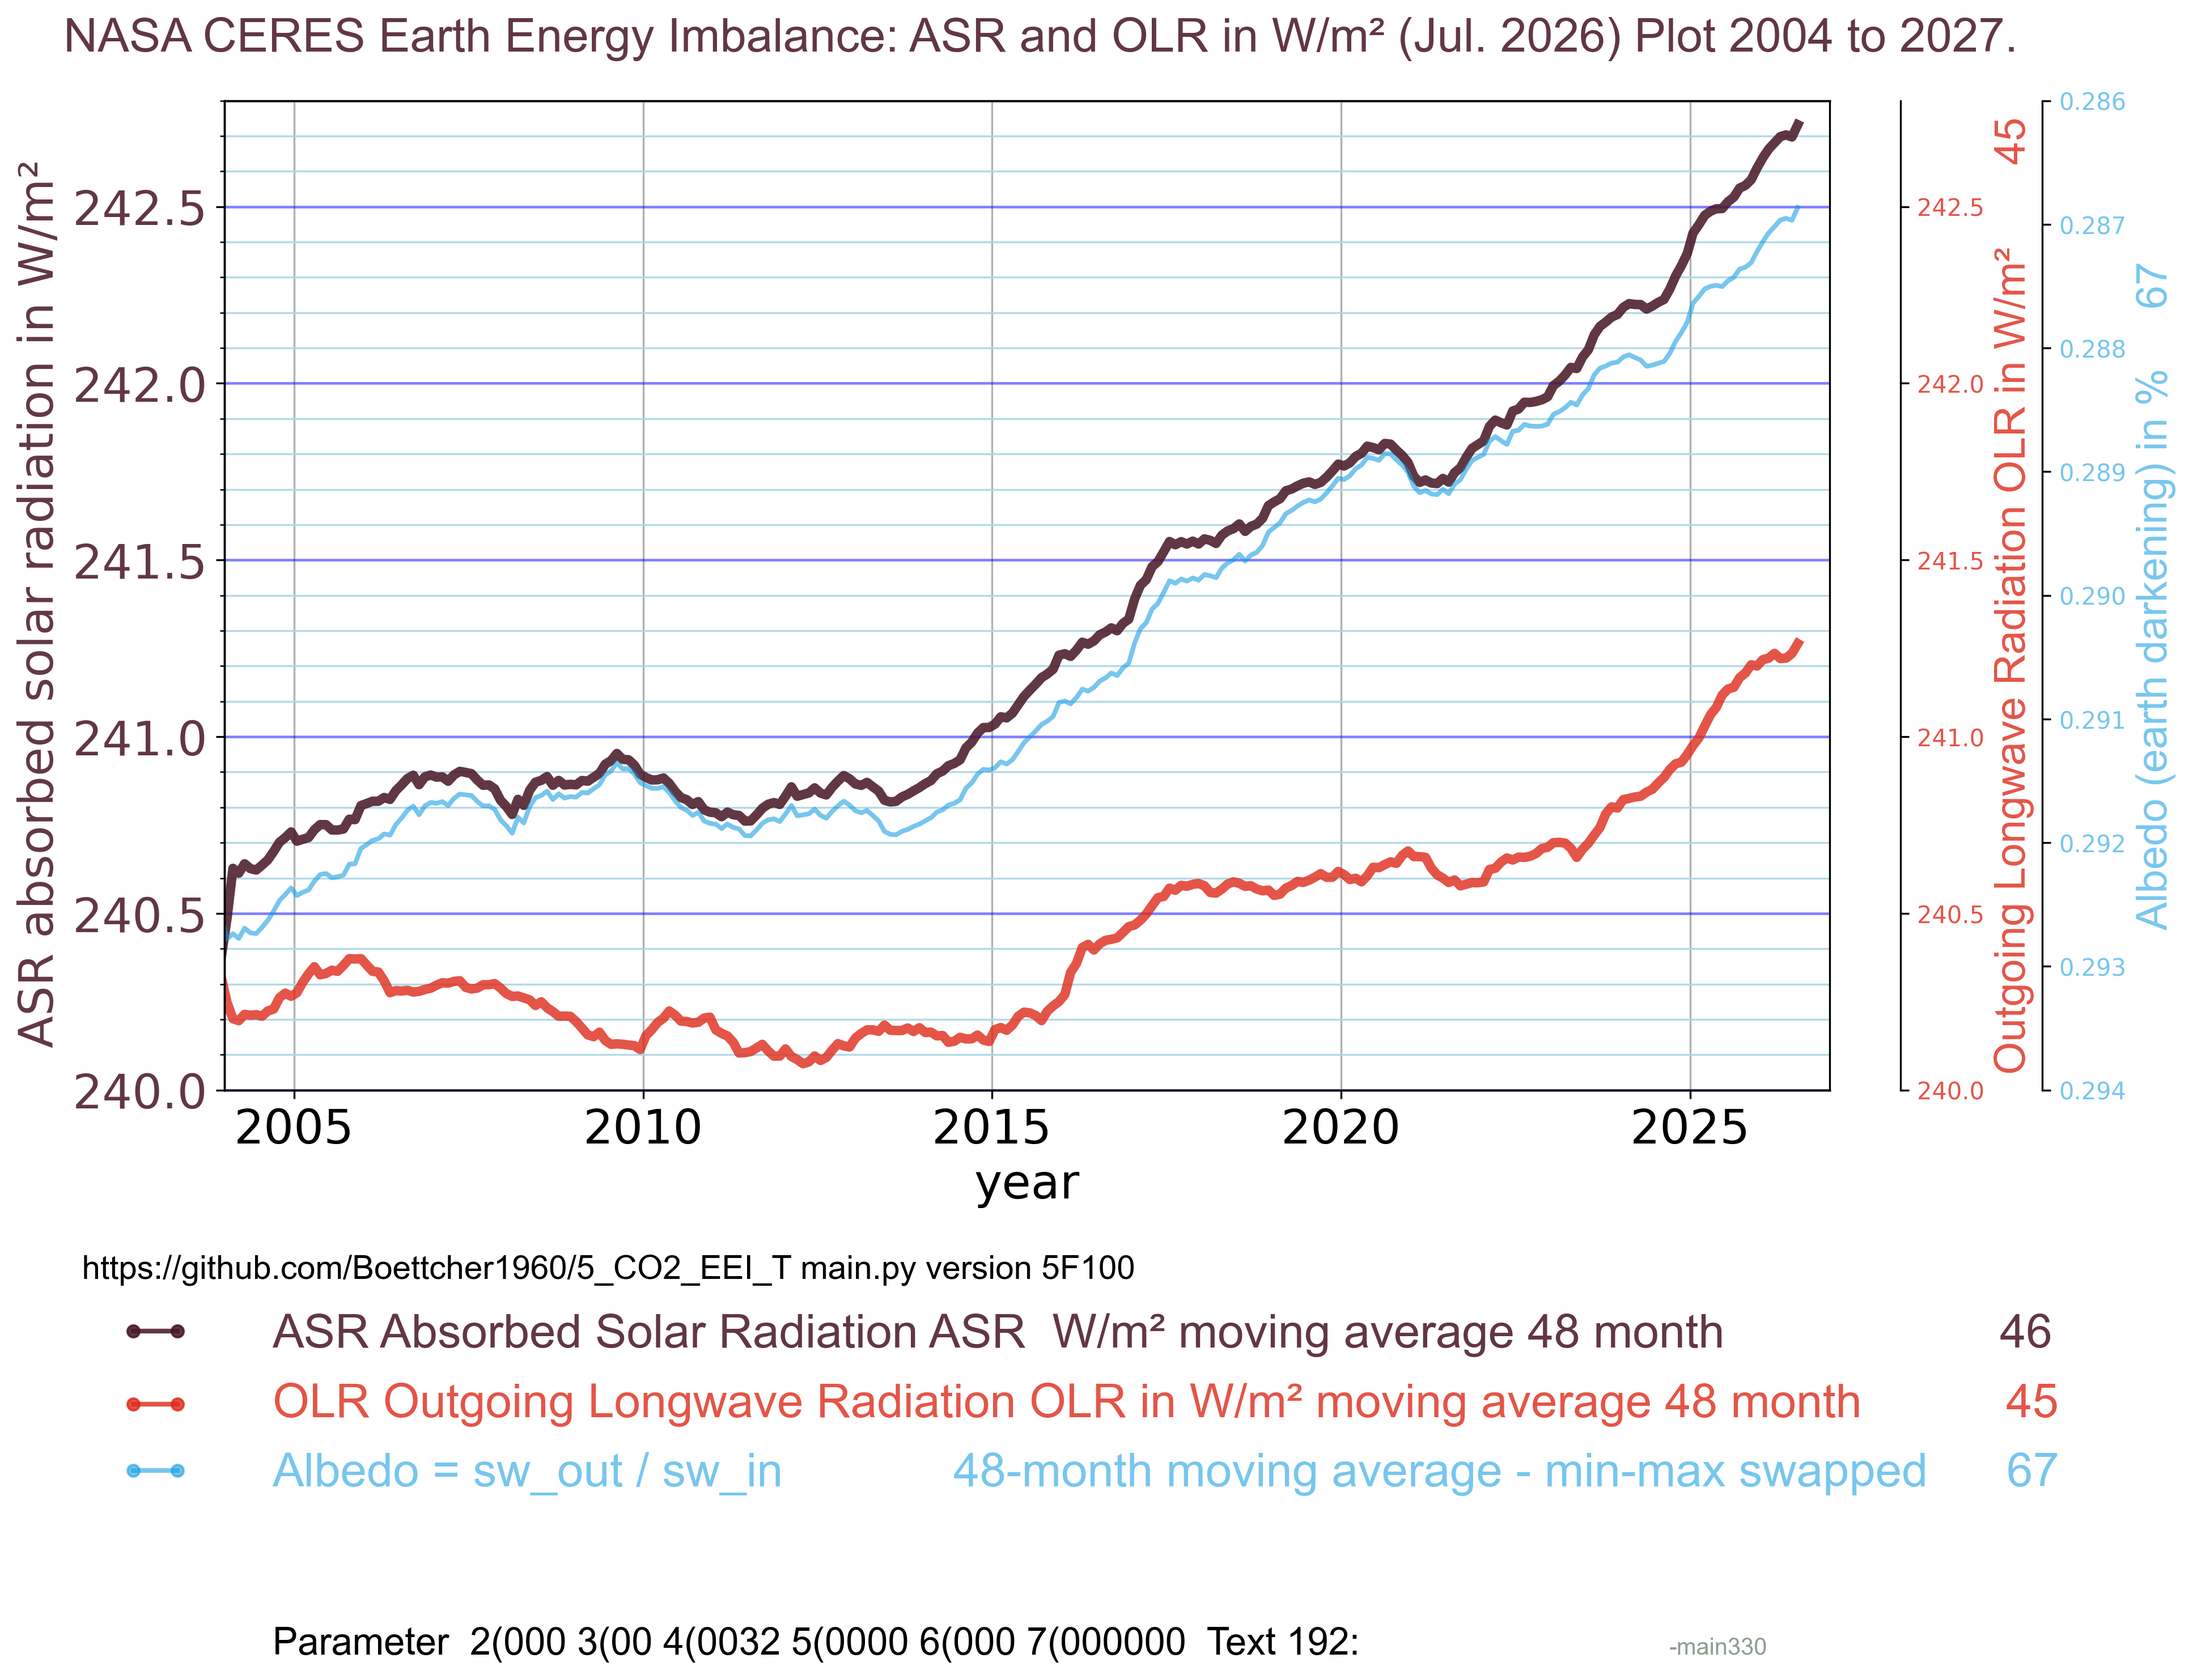
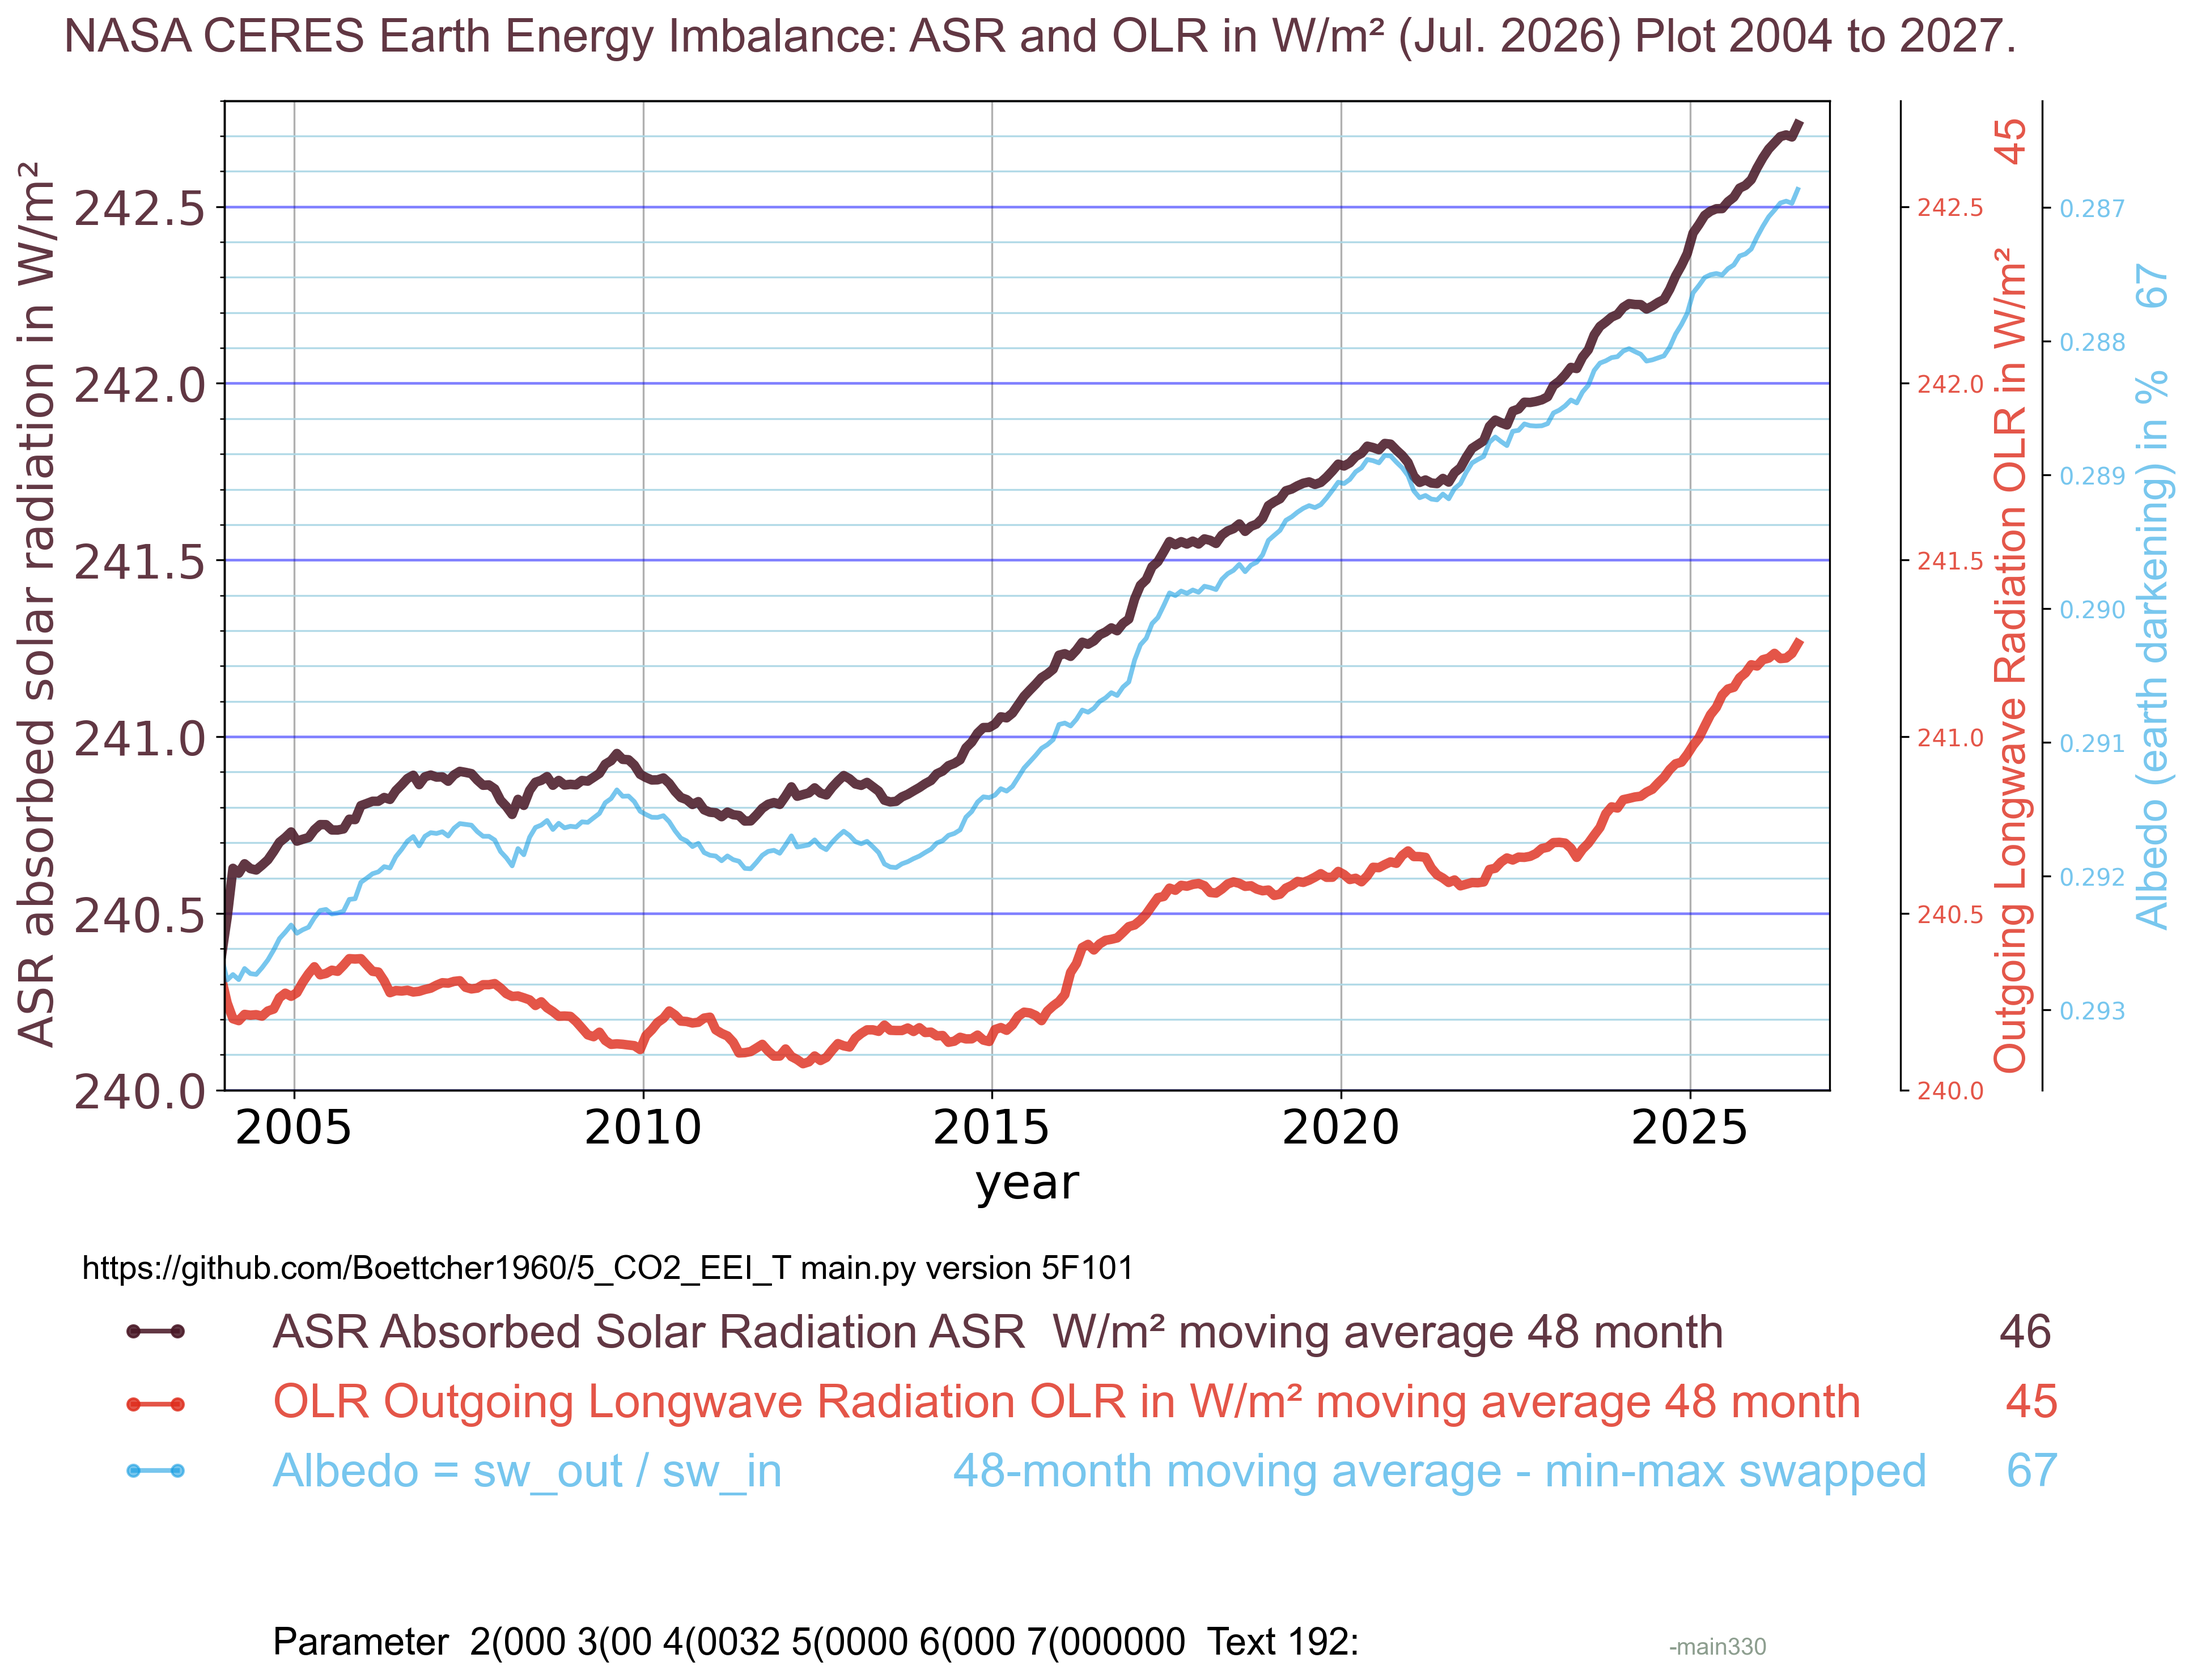
5F101

diff --git a/main.py b/main.py
@@ -1,6 +1,6 @@
 # main.py
 # part 1 configure
-v = "5F100" # play_67_albedo = 48 CERES 07_2026 
+v = "5F101" # play_67_albedo = 48 CERES 07_2026 
 # plan txt to csv to png play 64 
 # https://github.com/Boettcher1960/5_CO2_EEI_T
 # ocean stratification https://bsky.app/profile/thomas-boettcher.bsky.social/post/3mj7zx7fzsc26

diff --git a/config.py b/config.py
@@ -167,8 +167,8 @@ y_66max = 242.8  # OLR in W/m2
 
 y_67min = 0.285  # albedo in %
 y_67max = 0.295  # albedo in %
-y_67min = 0.294  # albedo in %
-y_67max = 0.286  # albedo in %
+y_67min = 0.2936  # 0.294 albedo in %
+y_67max = 0.2862  # 0.286 albedo in %
 
 
 
